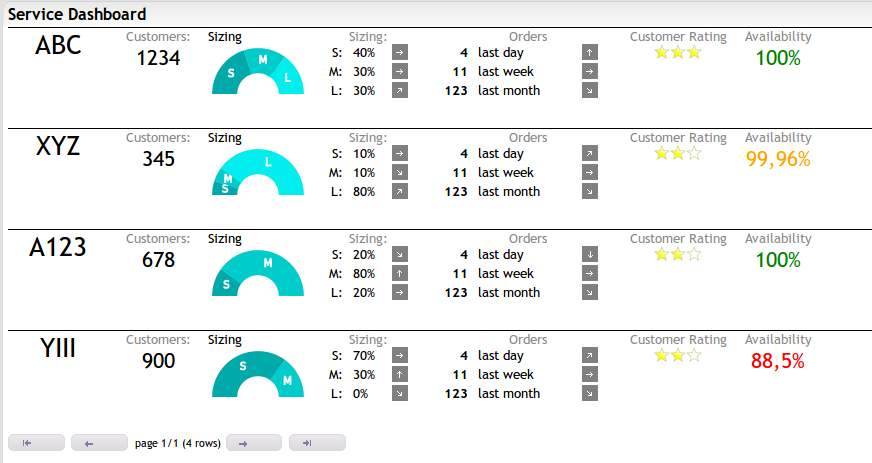
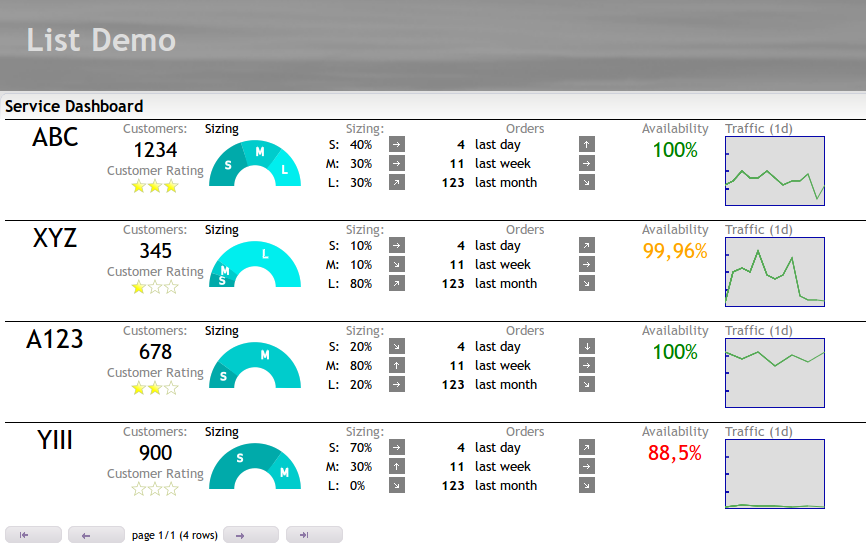
List with graph

diff --git a/examples/list/index.js b/examples/list/index.js
@@ -30,7 +30,9 @@ mainPage.addView(
           { id:'XCust', cellType:'div',
             'divs': [
               { id:'CustomerCountLb', cellType:'label', label:'Customers:' },
-              { id:'CustomerCount', cellType:'text' }
+              { id:'CustomerCount', cellType:'text' },
+              { id:'RatingLb', cellType:'label', label:'Customer Rating' },
+              { id:'Rating', cellType:'rating', ratingType:'3star' }
             ]
           },  
           { "id" : "XSizeG", "cellType" : "div", 
@@ -70,22 +72,35 @@ mainPage.addView(
                { id:'Orders.Mtrend', cellType: 'icon' }
             ]
           },  
-          { id:'XRating', cellType:'div',
-            'divs': [
-               { id:'RatingLb', cellType:'label', label:'Customer Rating' },
-               { id:'Rating', cellType:'rating', ratingType:'3star' }
-            ]
-          },  
           { id:'XAvail', cellType:'div',
             'divs': [
                { id:'AvailabilityLb', cellType:'label', label:'Availability' },
                { id:'Availability', cellType:'text' }
             ]
-          } 
+          },
+          { id: 'XUsage', cellType: 'div', 
+            'divs' : [ 
+              { id : 'UsageLb', cellType: 'label', label: 'Traffic (1d)' }, 
+              { id : 'Usage', cellType: 'graph',
+                layout:{
+                  name:'P[kPa]',
+                  graphType:'timeLog',
+                  colors: { traffic: '#5A5' },
+                  yAxis: {
+                    axisType :'linear',
+                    min      :'0',
+                    max      :'100',
+                    labels   :['0','25','50','75','100']
+                  }
+                } 
+              } 
+            ]
+          }          
        ]
     }
 )
 
+// now we have to implement the web service to serve some data for the example
 var svc  = gui.getExpress();
 svc.get( 
   '/service/statistics', 
@@ -94,25 +109,29 @@ svc.get(
     var tableData = 
       [ 
        {"ID":"ABC","CustomerCount":"1234","Rating":"3","Status":"false",
+         "Usage":[{"name":"traffic","data":[[-24,30],[-22,35],[-20,50],[-18,40],[-16,40],[-14,50],[-12,40],[-10,30],[-8,35],[-6,35],[-4,45],[-2,10],[0,30]]}],
          "SizeStat":[
                      {"val":"40","label":"S","color":"#0aa"},
                      {"val":"30","label":"M","color":"#0cc"},
                      {"val":"30","label":"L","color":"#0ee"}],
          "Size":{"S":"40%","Strend":"arrow-1-e","M":"30%","Mtrend":"arrow-1-e","L":"30%","Ltrend":"arrow-1-ne"},
          "Orders":{"D":"4","W":"11","M":"123","Dtrend":"arrow-1-n","Wtrend":"arrow-1-e","Mtrend":"arrow-1-se"},"Availability":"<span style=\"color:green\">100%</span>"},
-       {"ID":"XYZ","CustomerCount":"345","Rating":"2","Status":"true",
+       {"ID":"XYZ","CustomerCount":"345","Rating":"1","Status":"true",
+           "Usage":[{"name":"traffic","data":[[-24,5],[-22,50],[-20,55],[-18,50],[-16,80],[-14,45],[-12,40],[-10,45],[-8,70],[-6,15],[-4,10],[-2,10],[0,8]]}],
            "SizeStat":[{"val":"10","label":"S","color":"#0aa"},
                        {"val":"10","label":"M","color":"#0cc"},
                        {"val":"80","label":"L","color":"#0ee"}],
            "Size":{"S":"10%","Strend":"arrow-1-e","M":"10%","Mtrend":"arrow-1-se","L":"80%","Ltrend":"arrow-1-ne"},
            "Orders":{"D":"4","W":"11","M":"123","Dtrend":"arrow-1-ne","Wtrend":"arrow-1-e","Mtrend":"arrow-1-se"},"Availability":"<span style=\"color:orange\">99,96%</span>"},
        {"ID":"A123","CustomerCount":"678","Rating":"2","Status":"true",
+         "Usage":[{"name":"traffic","data":[[-24,80],[-20,70],[-16,80],[-12,60],[-8,75],[-4,65],[0,80]]}],
          "SizeStat":[{"val":"20","label":"S","color":"#0aa"},
                      {"val":"80","label":"M","color":"#0cc"},
                      {"val":"20","label":"L","color":"#0ee"}],
          "Size":{"S":"20%","Strend":"arrow-1-se","M":"80%","Mtrend":"arrow-1-n","L":"20%","Ltrend":"arrow-1-e"},
          "Orders":{"D":"4","W":"11","M":"123","Dtrend":"arrow-1-s","Wtrend":"arrow-1-e","Mtrend":"arrow-1-se"},"Availability":"<span style=\"color:green\">100%</span>"},
-       {"ID":"YIII","CustomerCount":"900","Rating":"2","Status":"true",
+       {"ID":"YIII","CustomerCount":"900","Rating":"0","Status":"true",
+         "Usage":[{"name":"traffic","data":[[-24,3],[-20,5],[-16,4],[-12,4],[-8,3],[-4,4],[0,3]]}],
          "SizeStat":[{"val":"70","label":"S","color":"#0aa"},
                      {"val":"30","label":"M","color":"#0cc"},
                      {"val":"0","label":"L","color":"#0ee"}],

diff --git a/examples/list/custom.css b/examples/list/custom.css
@@ -170,3 +170,15 @@ body {
 	height: 50px;
 }
 
+.pongListCellXUsage{
+	width: 100px;
+}
+.pongListCellUsageLb {
+	width: 100px;
+	color: gray;
+}
+.pongListCellUsage {
+	width: 100px;
+	height: 70px;
+}
+

diff --git a/README.md b/README.md
@@ -19,11 +19,14 @@ A lot of plug-ins are available to get a portal it quickly configured:
 This is how it may look like:
 ![demo screen shot](http://bit.ly/rest-web-gui-screenshot) 
 
+Have a look at the "list" [example](https://github.com/ma-ha/easy-web-app/tree/master/examples/list):
+![list demo screen shot](https://raw.githubusercontent.com/ma-ha/easy-web-app/master/examples/list/pong-list.png) 
+
+
 Check out [docu on "rest-web-gui" GIT project](https://github.com/ma-ha/rest-web-ui/), 
 the [examples](https://github.com/ma-ha/easy-web-app/tree/master/examples/)
 and the [online demos](http://mh-svr.de/pong_dev) of all features.
 
-![list demo screen shot](https://raw.githubusercontent.com/ma-ha/easy-web-app/master/examples/list/pong-list.png) 
 
 Check "[Release Notes](https://github.com/ma-ha/easy-web-app/blob/master/ReleaseNotes.md)" for latest changes in this version.
 
